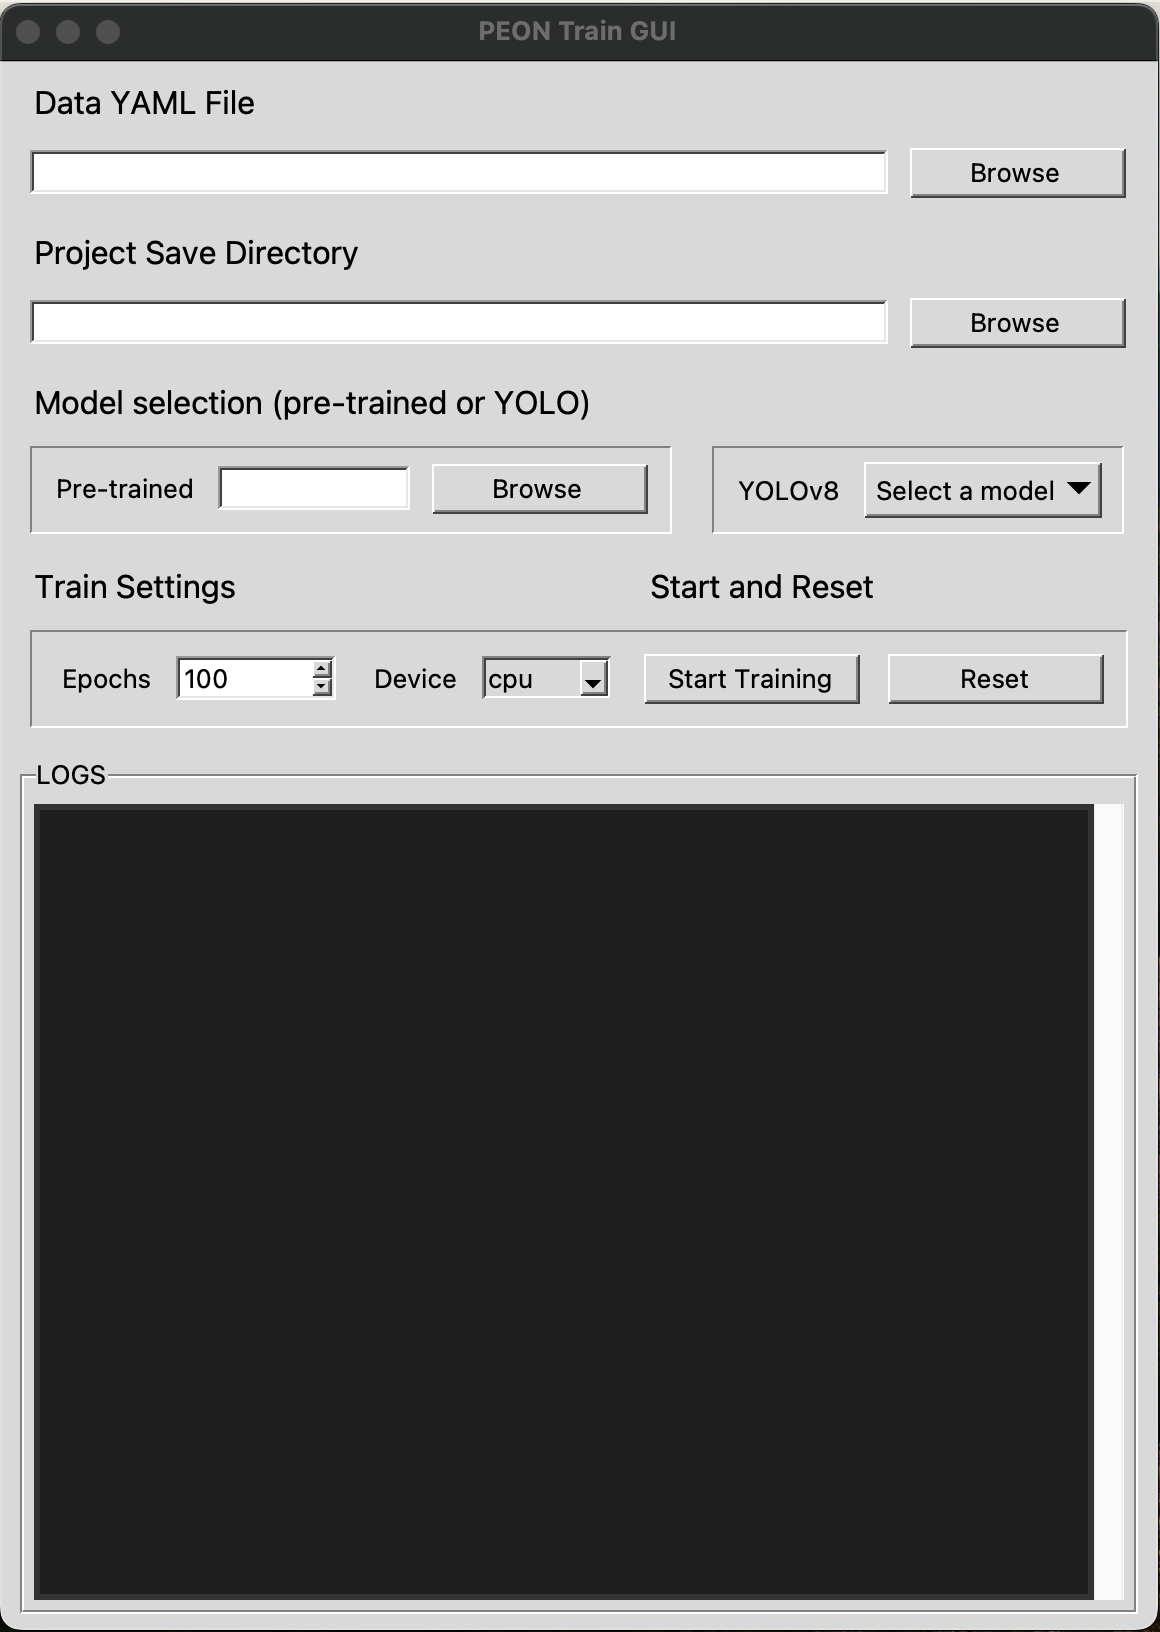
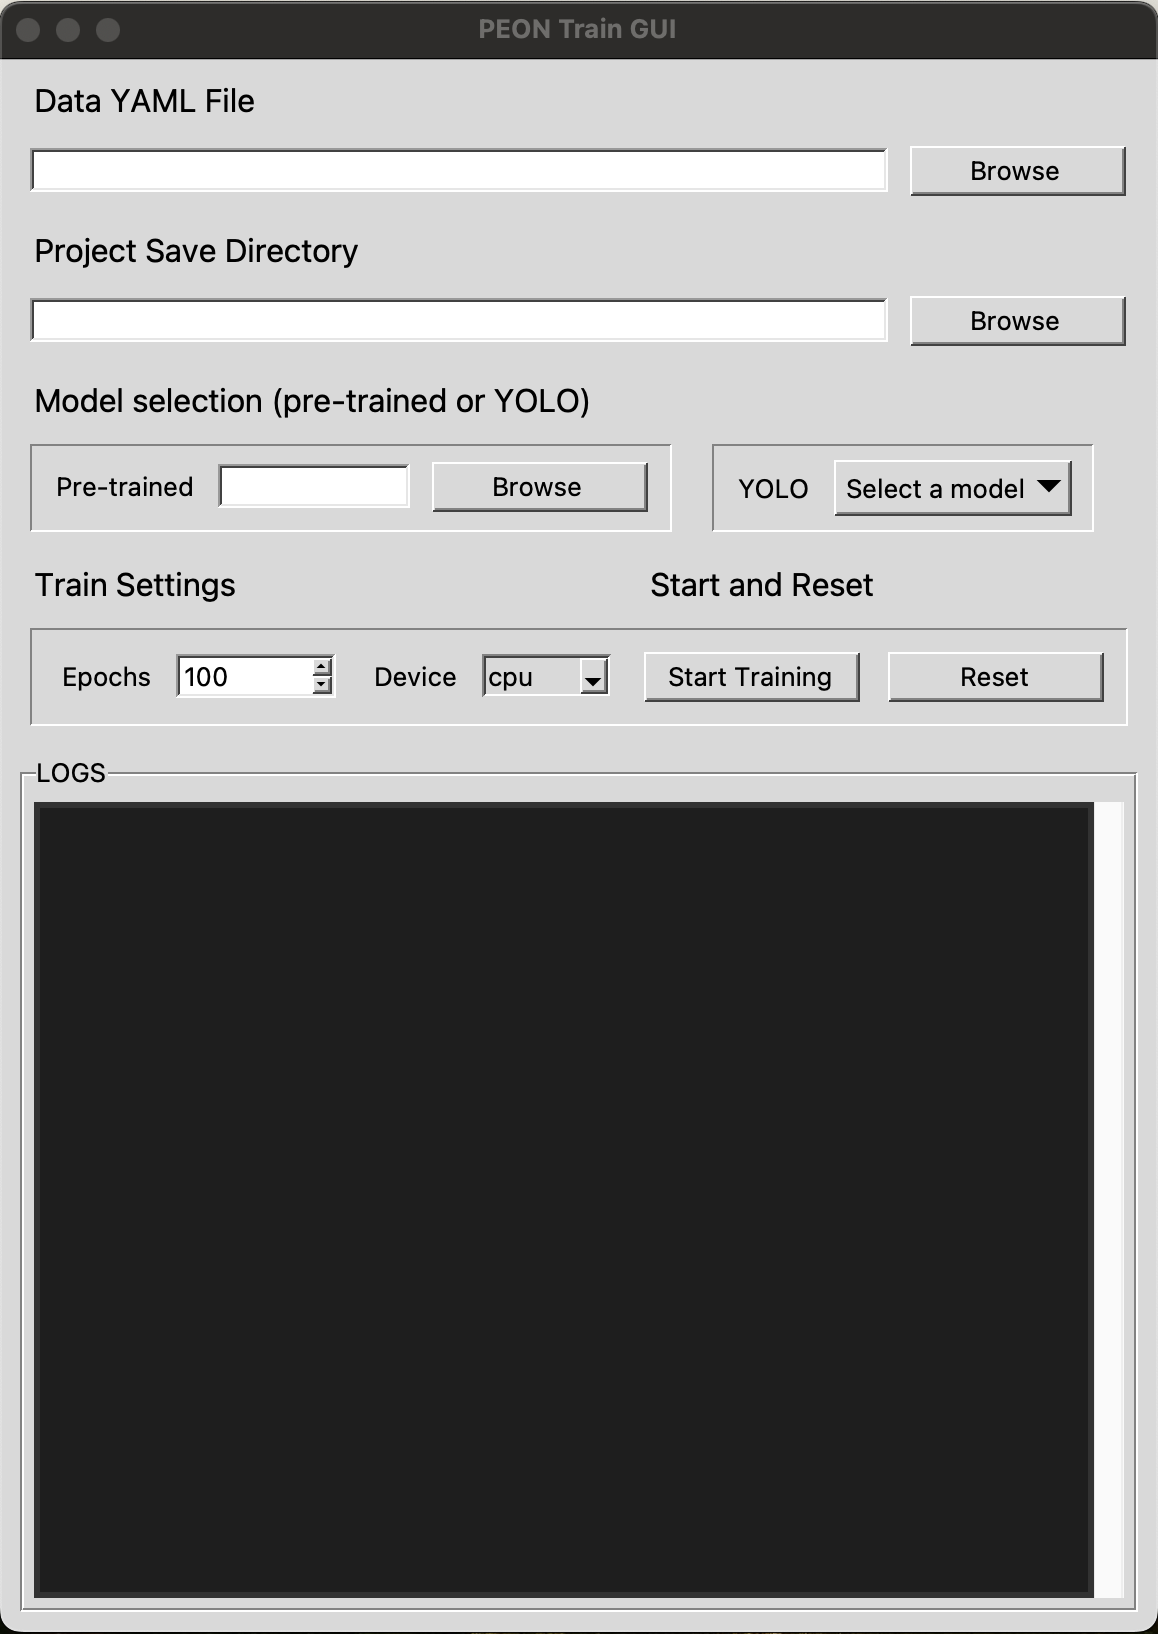
update train_gui illustration

diff --git a/README.md b/README.md
@@ -98,9 +98,9 @@ From the Actions menu, you can:
  - **Project Save Directory**: Click the **Browse** button and choose the directory where training outputs (e.g., logs, model checkpoints) will be saved.
  - **Model Selection**:
    - For Pre-trained Models: Click the **Browse** button to select a `.pt`, `.pth`, or `.onnx` model file.
-   - For YOLOv8 Models: Use the dropdown menu to choose one of the YOLO models (e.g., `yolov8n.pt`).
+   - For YOLO Models: Use the dropdown menu to choose one of the YOLO models (e.g., `yolov8n.pt`).
 - **Training Settings**:
-   - Set the number of **epochs** for training.
+   - Set the number of **Epochs** for training.
    - Select the device (`cpu` or `gpu`) from the dropdown menu.
 
 3. Start Training:
